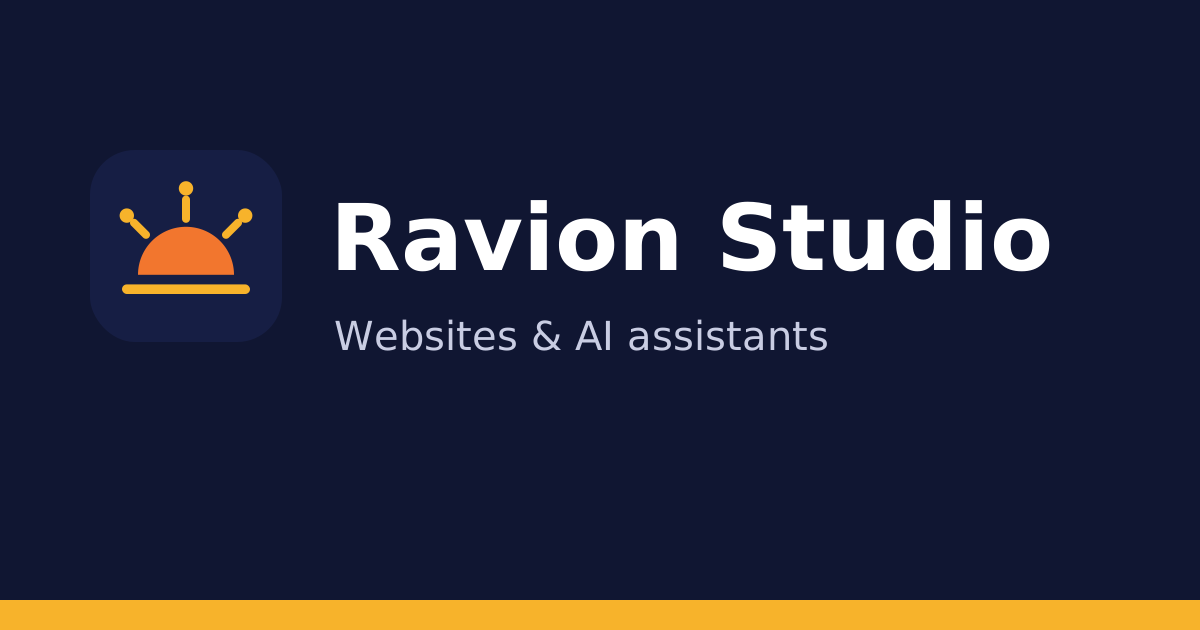
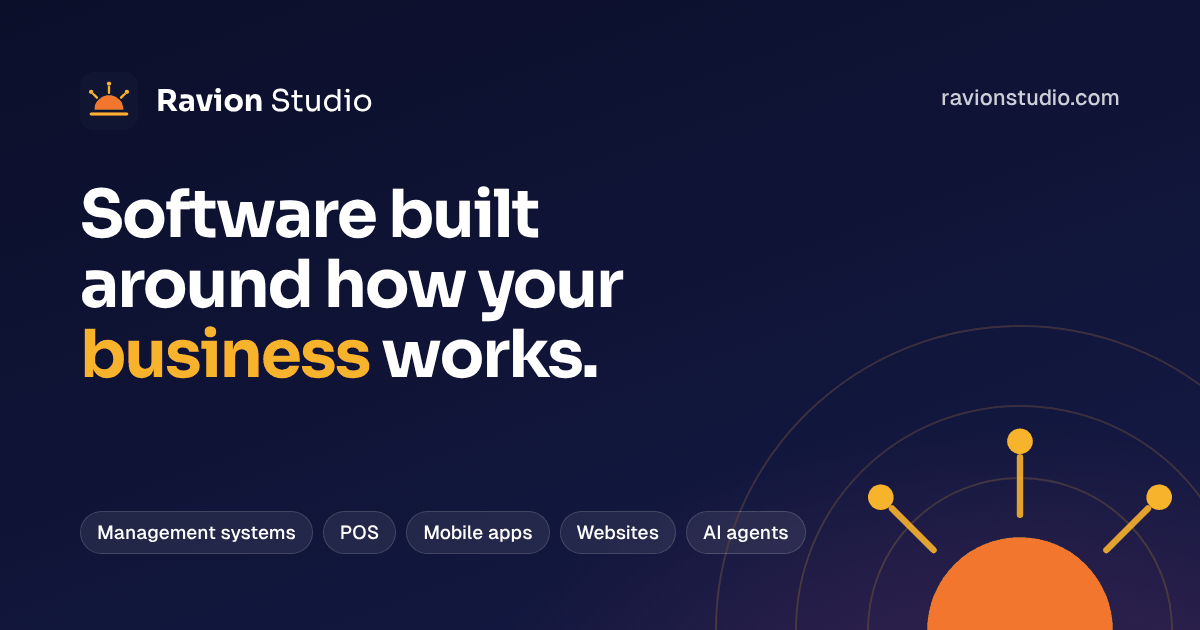
Add photo slots (solutions, industries, systems), new share image and IMAGES.md prompts
Claude-Session: https://claude.ai/code/session_01ECwEwbm4w61hFzj9dDUcG1

diff --git a/app/page.jsx b/app/page.jsx
@@ -14,6 +14,19 @@ import {
   INDUSTRIES,
 } from './site-config';
 
+// Photos added to public/img/... (see next.config.mjs). Returns the file for a slot, or null.
+const SITE_IMAGES = (() => {
+  try {
+    return JSON.parse(process.env.SITE_IMAGES || '[]');
+  } catch {
+    return [];
+  }
+})();
+function imageFor(folder, id) {
+  const re = new RegExp(`^/img/${folder}/${id}\\.(jpe?g|png|webp|avif)$`, 'i');
+  return SITE_IMAGES.find((f) => re.test(f)) || null;
+}
+
 const waLink = (text) => `https://wa.me/${CONTACT.whatsapp}${text ? `?text=${encodeURIComponent(text)}` : ''}`;
 const L = (v, lang) => (v && typeof v === 'object' && 'en' in v ? v[lang] : v);
 
@@ -453,8 +466,13 @@ function Solutions({ t, lang, money, onEstimate, onPlans }) {
         </div>
         <div className="bento">
           {SOLUTIONS.map((s, i) => (
-            <article key={s.id} className={`sol sol-${s.id} ${i === 0 ? 'sol-wide sol-dark' : ''}`}>
-              {i === 0 && (
+            <article key={s.id} className={`sol sol-${s.id} ${i === 0 ? 'sol-wide sol-dark' : ''} ${imageFor('solutions', s.id) ? 'has-media' : ''}`}>
+              {imageFor('solutions', s.id) && (
+                <div className="sol-media">
+                  <img src={imageFor('solutions', s.id)} alt="" loading="lazy" />
+                </div>
+              )}
+              {i === 0 && !imageFor('solutions', s.id) && (
                 <svg className="sol-deco" viewBox="0 0 400 220" aria-hidden="true">
                   <g fill="none" stroke="#F7B32B" strokeOpacity="0.22" strokeWidth="1.2">
                     <path d="M40 220 A160 160 0 0 1 360 220" />
@@ -569,7 +587,18 @@ function Industries({ t, lang, money, onEstimate }) {
             </button>
           ))}
         </div>
-        <div className="ind-panel" id="ind-panel" role="tabpanel" aria-labelledby={`ind-${ind.id}`} key={ind.id}>
+        <div
+          className={`ind-panel ${imageFor('industries', ind.id) ? 'has-photo' : ''}`}
+          id="ind-panel"
+          role="tabpanel"
+          aria-labelledby={`ind-${ind.id}`}
+          key={ind.id}
+        >
+          {imageFor('industries', ind.id) && (
+            <div className="ind-photo">
+              <img src={imageFor('industries', ind.id)} alt={L(ind.name, lang)} loading="lazy" />
+            </div>
+          )}
           <div>
             <h3>{t.industries.usually}</h3>
             <ul className="ind-list">
@@ -786,6 +815,11 @@ function Work({ t, lang }) {
                 <p className="system-name">{L(s.name, lang)}</p>
                 <p className="system-what">{L(s.what, lang)}</p>
               </div>
+              {imageFor('systems', s.id) && (
+                <div className="system-shot">
+                  <img src={imageFor('systems', s.id)} alt={`${L(s.name, lang)} screenshot`} loading="lazy" />
+                </div>
+              )}
               <div className="system-body">
                 <p className="system-kind">{L(s.kind, lang)}</p>
                 <p>{L(s.detail, lang)}</p>

diff --git a/app/globals.css b/app/globals.css
@@ -3429,3 +3429,73 @@ html[data-lang='si'] .hero h1 {
     transition-duration: 0.01ms !important;
   }
 }
+
+/* ───────── Photo slots (show only when a file exists in public/img/...) ───────── */
+.sol-media {
+  margin: -14px -14px 6px;
+  border-radius: calc(var(--r-xl) - 12px);
+  overflow: hidden;
+  aspect-ratio: 16 / 9;
+  background: var(--paper);
+}
+.sol-wide .sol-media {
+  aspect-ratio: 21 / 8;
+}
+.sol-dark .sol-media {
+  background: rgba(255, 255, 255, 0.06);
+}
+.sol-media img,
+.ind-photo img,
+.system-shot img {
+  width: 100%;
+  height: 100%;
+  object-fit: cover;
+  display: block;
+}
+
+.ind-panel.has-photo {
+  grid-template-columns: minmax(0, 0.95fr) minmax(0, 1.25fr) minmax(0, 0.7fr);
+  align-items: stretch;
+}
+.ind-photo {
+  border-radius: var(--r-lg);
+  overflow: hidden;
+  min-height: 260px;
+  background: var(--white);
+}
+
+.system-shot {
+  aspect-ratio: 16 / 10;
+  overflow: hidden;
+  background: var(--paper);
+  border-bottom: 1px solid var(--line);
+}
+.system-shot img {
+  object-position: top center;
+}
+
+@media (max-width: 1024px) {
+  .ind-panel.has-photo {
+    grid-template-columns: minmax(0, 1fr);
+  }
+  .ind-photo {
+    min-height: 0;
+    aspect-ratio: 16 / 9;
+  }
+  .sol-wide .sol-media {
+    aspect-ratio: 21 / 9;
+  }
+}
+
+@media (max-width: 720px) {
+  .sol-media {
+    margin: -8px -8px 4px;
+    border-radius: calc(var(--r-lg) - 8px);
+  }
+  .sol-wide .sol-media {
+    aspect-ratio: 16 / 9;
+  }
+}
+.ind-panel.has-photo .ind-list {
+  grid-template-columns: minmax(0, 1fr);
+}

diff --git a/IMAGES.md b/IMAGES.md
@@ -1,0 +1,82 @@
+# Website photos: where they go and prompts to make them
+
+Drop each image into the folder shown, with the exact file name (`.jpg`, `.png` or `.webp` all work).
+The site finds them automatically on the next build. A slot with no file simply doesn't show, so you can add them one at a time.
+
+Before adding, shrink each image at https://squoosh.app (WebP, quality 75, width shown below) so the site stays fast. Aim for under 300 KB per image.
+
+Tips for Gemini:
+- Paste one prompt at a time. If the result has text, logos or weird hands, say "remove all text and logos" or regenerate.
+- Keep the look consistent: if one image comes out well, say "same style as the previous image" for the next one.
+- These are illustrations of the kind of work we do, not photos of real clients. Don't add client names or logos.
+
+---
+
+## 1. "What we build" cards: `public/img/solutions/`
+
+Shared style for all six: premium 3D product render, soft studio lighting, rounded glossy devices, Ravion colours (deep navy #0b0f2a, sunset orange #F2762E, warm gold #F7B32B), clean minimal composition, no readable text, no logos, no people.
+
+### management.jpg (wide, 21:9, width 2000): dark card
+> A wide 21:9 premium 3D render on a deep navy background (#0b0f2a). A floating glass laptop and a tablet show an abstract business dashboard: bar charts, a line chart, data tables and stock cards made of simple shapes with no readable text. Around them, small floating glass tiles represent inventory boxes, a customer profile card, a staff calendar and an invoice, connected by thin glowing gold lines to a central database cylinder. Warm sunset-orange (#F2762E) rim light from the bottom right, soft gold (#F7B32B) highlights, subtle depth of field, lots of empty dark space on the left third. Minimal, modern, high-end tech advertising style. No text, no logos, no people.
+
+### pos.jpg (16:9, width 1600)
+> A 16:9 premium 3D render of a modern point-of-sale setup on a light off-white background (#f3f4f8): a sleek white touchscreen POS terminal showing an abstract product grid of coloured tiles, a small receipt printer with a curled receipt, a barcode scanner and a card payment terminal on a smooth counter. Accents in sunset orange (#F2762E) and warm gold (#F7B32B), soft shadows, studio lighting, clean and minimal. No readable text, no logos, no people.
+
+### mobile.jpg (16:9, width 1600)
+> A 16:9 premium 3D render of two modern smartphones floating at slight angles on a light off-white background (#f3f4f8), one Android-style and one iPhone-style. Their screens show an abstract app interface made of rounded cards, a progress ring and a bottom navigation bar, in navy (#0b0f2a) and sunset orange (#F2762E). Small floating 3D icons around them: a bell notification, a calendar, a shopping bag and a chart. Soft studio light, gentle shadows, minimal and premium. No readable text, no logos, no people.
+
+### website.jpg (16:9, width 1600)
+> A 16:9 premium 3D render of a modern website shown on a laptop, a tablet and a phone side by side (responsive design), on a light off-white background (#f3f4f8). The screens show an abstract landing page: a large hero image block, buttons and product cards made of simple shapes, in navy (#0b0f2a), sunset orange (#F2762E) and gold (#F7B32B). A small floating shopping cart icon and a search bar element. Soft studio lighting, clean shadows, minimal premium style. No readable text, no logos, no people.
+
+### ai.jpg (16:9, width 1600)
+> A 16:9 premium 3D render of an AI assistant concept on a light off-white background (#f3f4f8): a glowing glass orb with three small gold nodes rising above it like sun rays, beside a smartphone showing a chat conversation made of speech bubbles (no readable text). Floating chat bubbles, a small calendar booking card and a check-mark badge around it. Colours: navy (#0b0f2a), sunset orange (#F2762E), warm gold (#F7B32B). Soft studio light, subtle glow, minimal and premium. No text, no logos, no robots with faces, no people.
+
+### automation.jpg (16:9, width 1600)
+> A 16:9 premium 3D render of business automation on a light off-white background (#f3f4f8): rounded glass app tiles (a spreadsheet grid, an envelope, a chat bubble, a calendar, a document) connected by smooth glowing orange (#F2762E) pipelines with small gold (#F7B32B) light pulses travelling between them, like a clean workflow diagram floating in space. Navy (#0b0f2a) accents, soft shadows, minimal and premium. No readable text, no logos, no people.
+
+---
+
+## 2. "Built for your kind of business": `public/img/industries/`
+
+Shared style for all eight: realistic, warm, natural light photo of a small business in Sri Lanka, modern and tidy, a screen or device naturally in use, shallow depth of field, soft warm colour grade. People can appear but not as the main subject; no readable text, no brand logos.
+Use 4:3, width 1200.
+
+### retail.jpg
+> A realistic 4:3 photo of a modern small supermarket and pharmacy counter in Sri Lanka. A cashier's hands scan a product with a barcode scanner next to a touchscreen POS terminal; neat shelves of packaged goods and medicine boxes in soft focus behind. Warm natural light, clean and modern, shallow depth of field. No readable text, no brand logos, no visible faces.
+
+### food.jpg
+> A realistic 4:3 photo inside a stylish small café-restaurant in Sri Lanka. A waiter takes an order on a tablet near the counter while a kitchen screen shows order tickets as coloured cards in the background; plates of food and cups of Ceylon tea on wooden tables. Warm evening light, cosy and modern, shallow depth of field. No readable text, no logos, faces turned away or out of focus.
+
+### salon.jpg
+> A realistic 4:3 photo of a modern, elegant hair salon and spa in Sri Lanka. At the reception desk, a smartphone in the foreground shows a booking calendar with time slots as coloured blocks; styling chairs, mirrors and plants in soft focus behind. Warm soft lighting with gold accents, calm and premium. No readable text, no logos, no visible faces.
+
+### clinic.jpg
+> A realistic 4:3 photo of a clean, modern private clinic reception in Sri Lanka. A receptionist's hands work on a computer showing an appointment schedule as coloured blocks; a calm waiting area with chairs and plants in soft focus. Bright, soft, trustworthy lighting with white and light-blue tones. No readable text, no logos, no visible faces, no medical procedures.
+
+### gym.jpg
+> A realistic 4:3 photo of a modern gym in Sri Lanka. In the foreground, a hand holds a smartphone showing a workout plan with progress rings and exercise cards; weights, racks and treadmills in soft focus behind. Moody warm lighting with orange highlights, energetic but clean. No readable text, no logos, no visible faces.
+
+### office.jpg
+> A realistic 4:3 photo of a bright, modern small office in Sri Lanka. A team member at a desk with a laptop showing a staff dashboard (attendance cards and a calendar as simple coloured blocks), a colleague walking past in soft focus, plants and natural window light. Professional, calm and modern. No readable text, no logos, faces out of focus.
+
+### warehouse.jpg
+> A realistic 4:3 photo inside a tidy wholesale warehouse in Sri Lanka. A worker's hands hold a rugged tablet showing stock levels as simple bar charts, with tall shelves of labelled cardboard boxes and a pallet in soft focus behind. Warm industrial lighting, organised and modern. No readable text, no logos, no visible faces.
+
+### education.jpg
+> A realistic 4:3 photo of a modern tuition class in Sri Lanka. Students at desks in soft focus, a teacher near a large screen, and in the foreground a tablet showing a class timetable and payment list as simple coloured blocks. Bright, friendly natural light, modern and clean. No readable text, no logos, no clear faces of children.
+
+---
+
+## 3. "Our work" system cards: `public/img/systems/`
+
+Use **real screenshots** here, not AI images: clients and visitors trust real work. Desktop screenshots, 16:10, width 1600.
+
+- `nopeq.jpg`: a screenshot of the NopeQ booking page or dashboard.
+- `gym.jpg`: a screenshot of the gym app (member app or trainer dashboard).
+- `staff.jpg`: a screenshot of the staff & attendance app. Only add this with the client's OK, and use demo data (no real staff names or numbers).
+
+---
+
+## 4. Social share image: `public/og.png`
+
+Already made (1200×630). It shows when someone shares ravionstudio.com on WhatsApp or Facebook.
